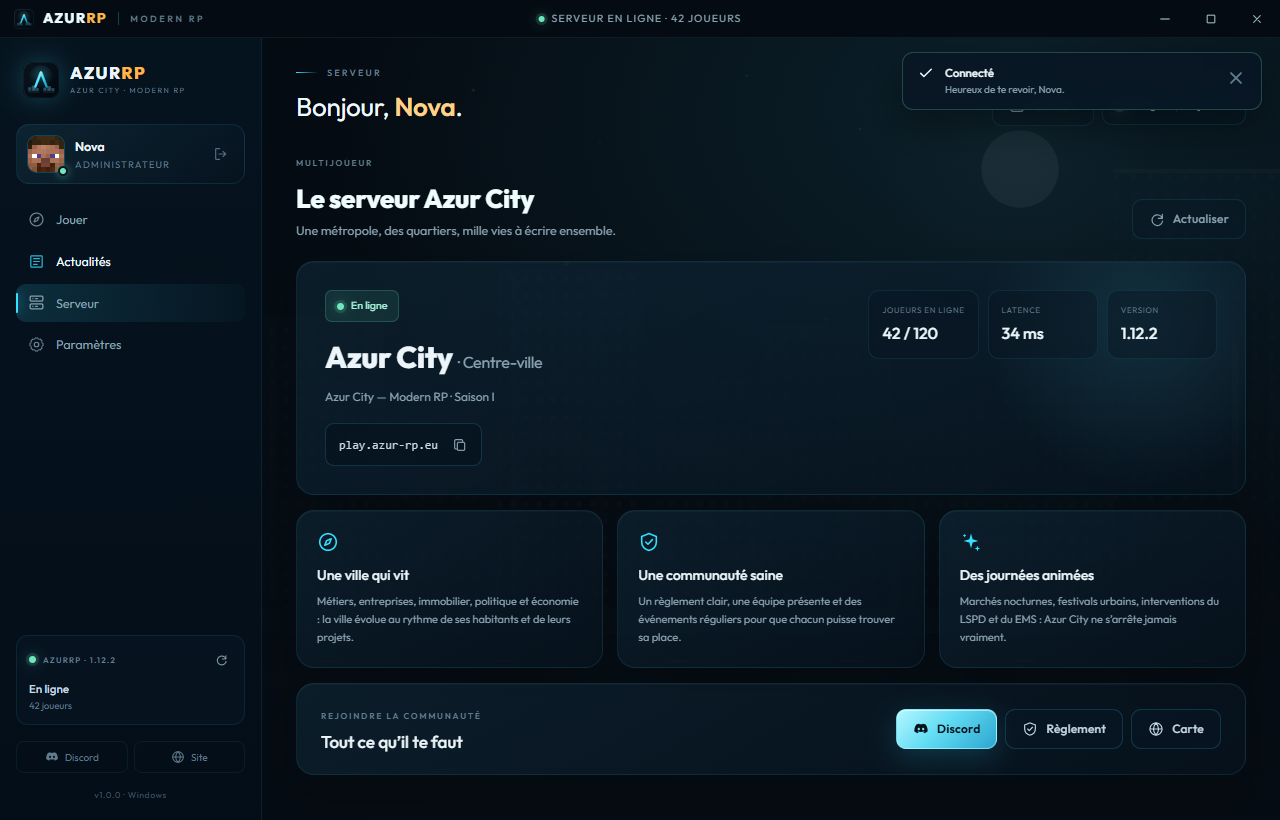
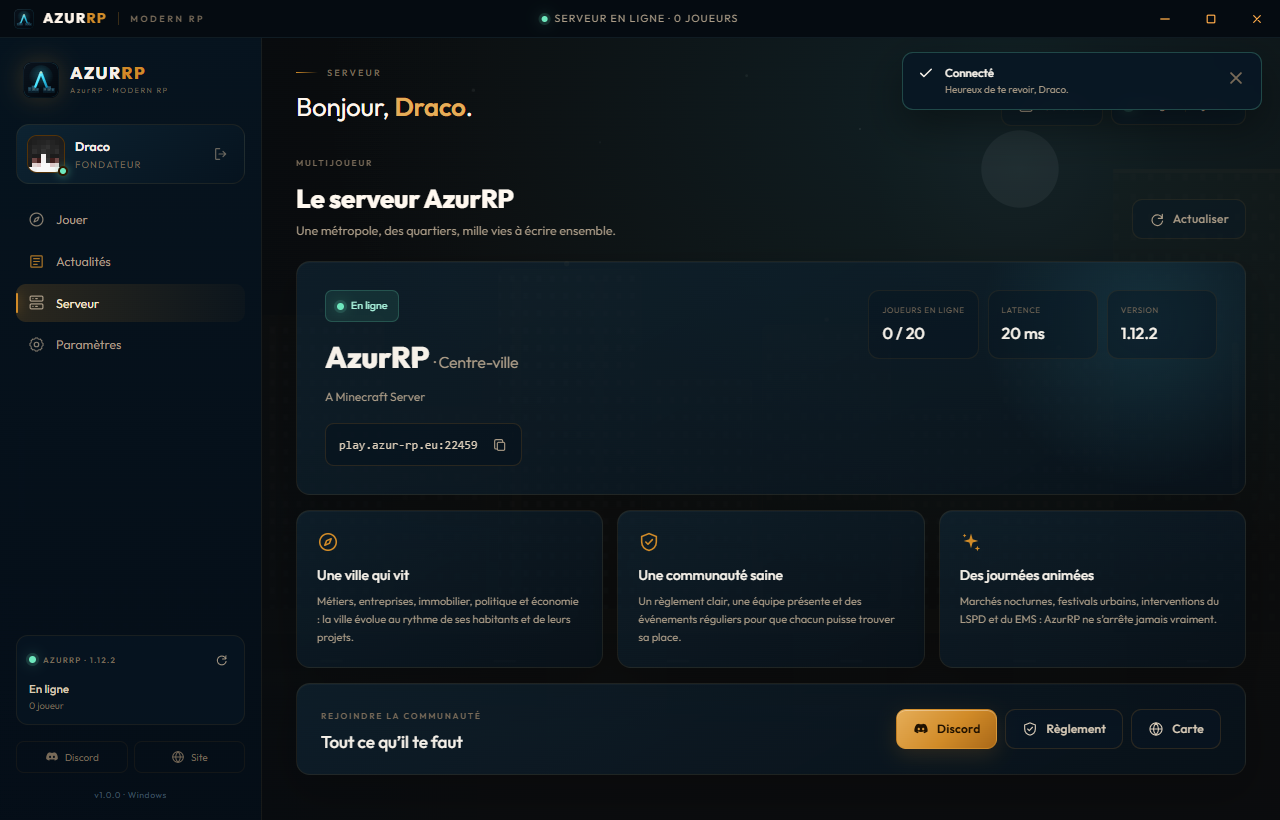
Publish v1.0.3

diff --git a/scripts/screenshot.js b/scripts/screenshot.js
@@ -10,8 +10,34 @@ const path = require('node:path');
 const root = path.resolve(__dirname, '..');
 const output = path.join(root, 'docs', 'screenshots');
 const delay = (ms) => new Promise((resolve) => setTimeout(resolve, ms));
+const only = new Set(process.argv.slice(2));
+
+async function waitFor(win, expression, label, timeout = 10000) {
+  const started = Date.now();
+  while (Date.now() - started < timeout) {
+    if (await win.webContents.executeJavaScript(expression).catch(() => false)) return;
+    await delay(100);
+  }
+  throw new Error(`Délai dépassé en attendant ${label}`);
+}
 
 async function capture(win, name) {
+  if (only.size && !only.has(name)) return;
+  await win.webContents.executeJavaScript(`
+    (async () => {
+      const view = document.querySelector('.view.active');
+      const animations = view
+        ? view.getAnimations({ subtree: true }).filter((animation) => {
+            const timing = animation.effect?.getComputedTiming();
+            return timing && timing.iterations !== Infinity && animation.playState === 'running';
+          })
+        : [];
+      await Promise.all(animations.map((animation) => animation.finished.catch(() => {})));
+    })()
+  `);
+  await win.webContents.executeJavaScript(
+    'new Promise(resolve => requestAnimationFrame(() => requestAnimationFrame(resolve)))'
+  );
   const image = await win.webContents.capturePage();
   await fs.writeFile(path.join(output, `${name}.png`), image.toPNG());
   console.log(`[screenshot] ${name}.png`);
@@ -36,10 +62,18 @@ async function run() {
   });
 
   await win.loadFile(path.join(root, 'dist', 'renderer', 'index.html'));
-  await delay(450);
+  await waitFor(
+    win,
+    `(() => {
+      const boot = document.querySelector('#boot-screen');
+      return boot && !boot.classList.contains('hidden');
+    })()`,
+    'affichage de l’écran de démarrage'
+  );
+  await delay(250);
   await capture(win, '01-boot');
 
-  await delay(1400);
+  await waitFor(win, `document.querySelector('#login-screen')?.classList.contains('hidden') === false`, 'écran de connexion');
   await capture(win, '02-login');
 
   await win.webContents.executeJavaScript(`
@@ -50,7 +84,12 @@ async function run() {
       return true;
     })()
   `);
-  await delay(1200);
+  await waitFor(win, `document.querySelector('#main-screen')?.classList.contains('hidden') === false`, 'connexion réussie');
+  await waitFor(
+    win,
+    `document.querySelector('#news-grid')?.querySelector('.news-card, .detail-card') !== null`,
+    'chargement du contenu'
+  );
   await capture(win, '03-play');
 
   for (const [view, name] of [
@@ -61,7 +100,24 @@ async function run() {
     await win.webContents.executeJavaScript(
       `document.querySelector('.nav-item[data-view="${view}"]').click(), true`
     );
-    await delay(650);
+    await waitFor(
+      win,
+      `document.querySelector('.view.active')?.dataset.viewPanel === '${view}'`,
+      `vue ${view}`
+    );
+    if (view === 'server') {
+      await waitFor(
+        win,
+        `(() => {
+          const status = document.querySelector('#server-big-status');
+          return status?.classList.contains('online') || status?.classList.contains('offline');
+        })()`,
+        'fin de la vérification du serveur'
+      );
+    }
+    if (view === 'settings') {
+      await waitFor(win, `document.querySelector('#set-server-host')?.value === 'play.azur-rp.eu'`, 'chargement des paramètres');
+    }
     await capture(win, name);
   }
 

diff --git a/scripts/screenshot-preload.js b/scripts/screenshot-preload.js
@@ -12,63 +12,35 @@ const settings = {
   memoryMinMb: 1024,
   resolution: { width: 1280, height: 720, fullscreen: false },
   serverHost: 'play.azur-rp.eu',
-  serverPort: 25565,
+  serverPort: 22459,
   autoConnect: true,
   useForge: true,
-  forgeBuild: '14.23.5.2860',
+  forgeBuild: '1.12.2-14.23.5.2860',
   gameDir: 'C:\\Users\\Nova\\AppData\\Roaming\\AzurRP\\minecraft',
   javaPath: '',
-  apiUrl: 'http://127.0.0.1:3000',
+  apiUrl: 'https://api.azur-rp.eu',
   minimizeOnLaunch: true,
   rememberSession: true
 };
 
 const user = {
   id: 1,
-  username: 'Nova',
-  email: 'nova@azurrp.fr',
+  username: 'Draco',
+  email: 'dracomc-off@proton.me',
   role: 'admin',
   createdAt: '2026-01-18T10:24:00.000Z'
 };
 
-const news = [
-  {
-    id: 'festival-lanternes',
-    title: 'Le Festival des Lumières illumine le centre-ville',
-    excerpt:
-      'Trois soirées de concerts, de food trucks et d’installations lumineuses sur l’avenue centrale. La ville ne dormira pas.',
-    tag: 'Événement',
-    image: 'news-festival.svg',
-    publishedAt: '2026-10-28T18:00:00.000Z'
-  },
-  {
-    id: 'marche-suspendu',
-    title: 'Le marché nocturne s’installe sur l’avenue',
-    excerpt:
-      'Artisans, producteurs et commerçants prennent possession du centre-ville à la tombée de la nuit. Un nouvel espace pour l’économie locale.',
-    tag: 'Économie',
-    image: 'news-market.svg',
-    publishedAt: '2026-10-21T16:30:00.000Z'
-  },
-  {
-    id: 'archives-azur',
-    title: 'Le quartier d’affaires ouvre ses portes',
-    excerpt:
-      'Bureaux, commerces et résidences haut de gamme : le nouveau quartier d’affaires d’AzurRP accueille ses premiers habitants et entreprises.',
-    tag: 'Ville',
-    image: 'news-lore.svg',
-    publishedAt: '2026-10-14T12:00:00.000Z'
-  }
-];
+const news = [];
 
 const server = {
   online: true,
   host: 'play.azur-rp.eu',
-  port: 25565,
-  players: { online: 42, max: 120 },
-  ping: 34,
+  port: 22459,
+  players: { online: 0, max: 20 },
+  ping: 20,
   version: '1.12.2',
-  motd: 'AzurRP — Modern RP'
+  motd: 'A Minecraft Server'
 };
 
 contextBridge.exposeInMainWorld('azur', {
@@ -110,10 +82,10 @@ contextBridge.exposeInMainWorld('azur', {
     get: async () => ({
       news,
       links: {
-        discord: 'https://discord.gg/azurrp',
-        website: 'https://azurrp.fr',
-        rules: 'https://azurrp.fr/reglement',
-        map: 'https://azurrp.fr/carte'
+        discord: 'https://discord.azur-rp.eu',
+        website: 'https://azur-rp.eu',
+        rules: 'https://azur-rp.eu/reglement',
+        map: 'https://azur-rp.eu/carte'
       },
       announcement: null,
       offline: false
